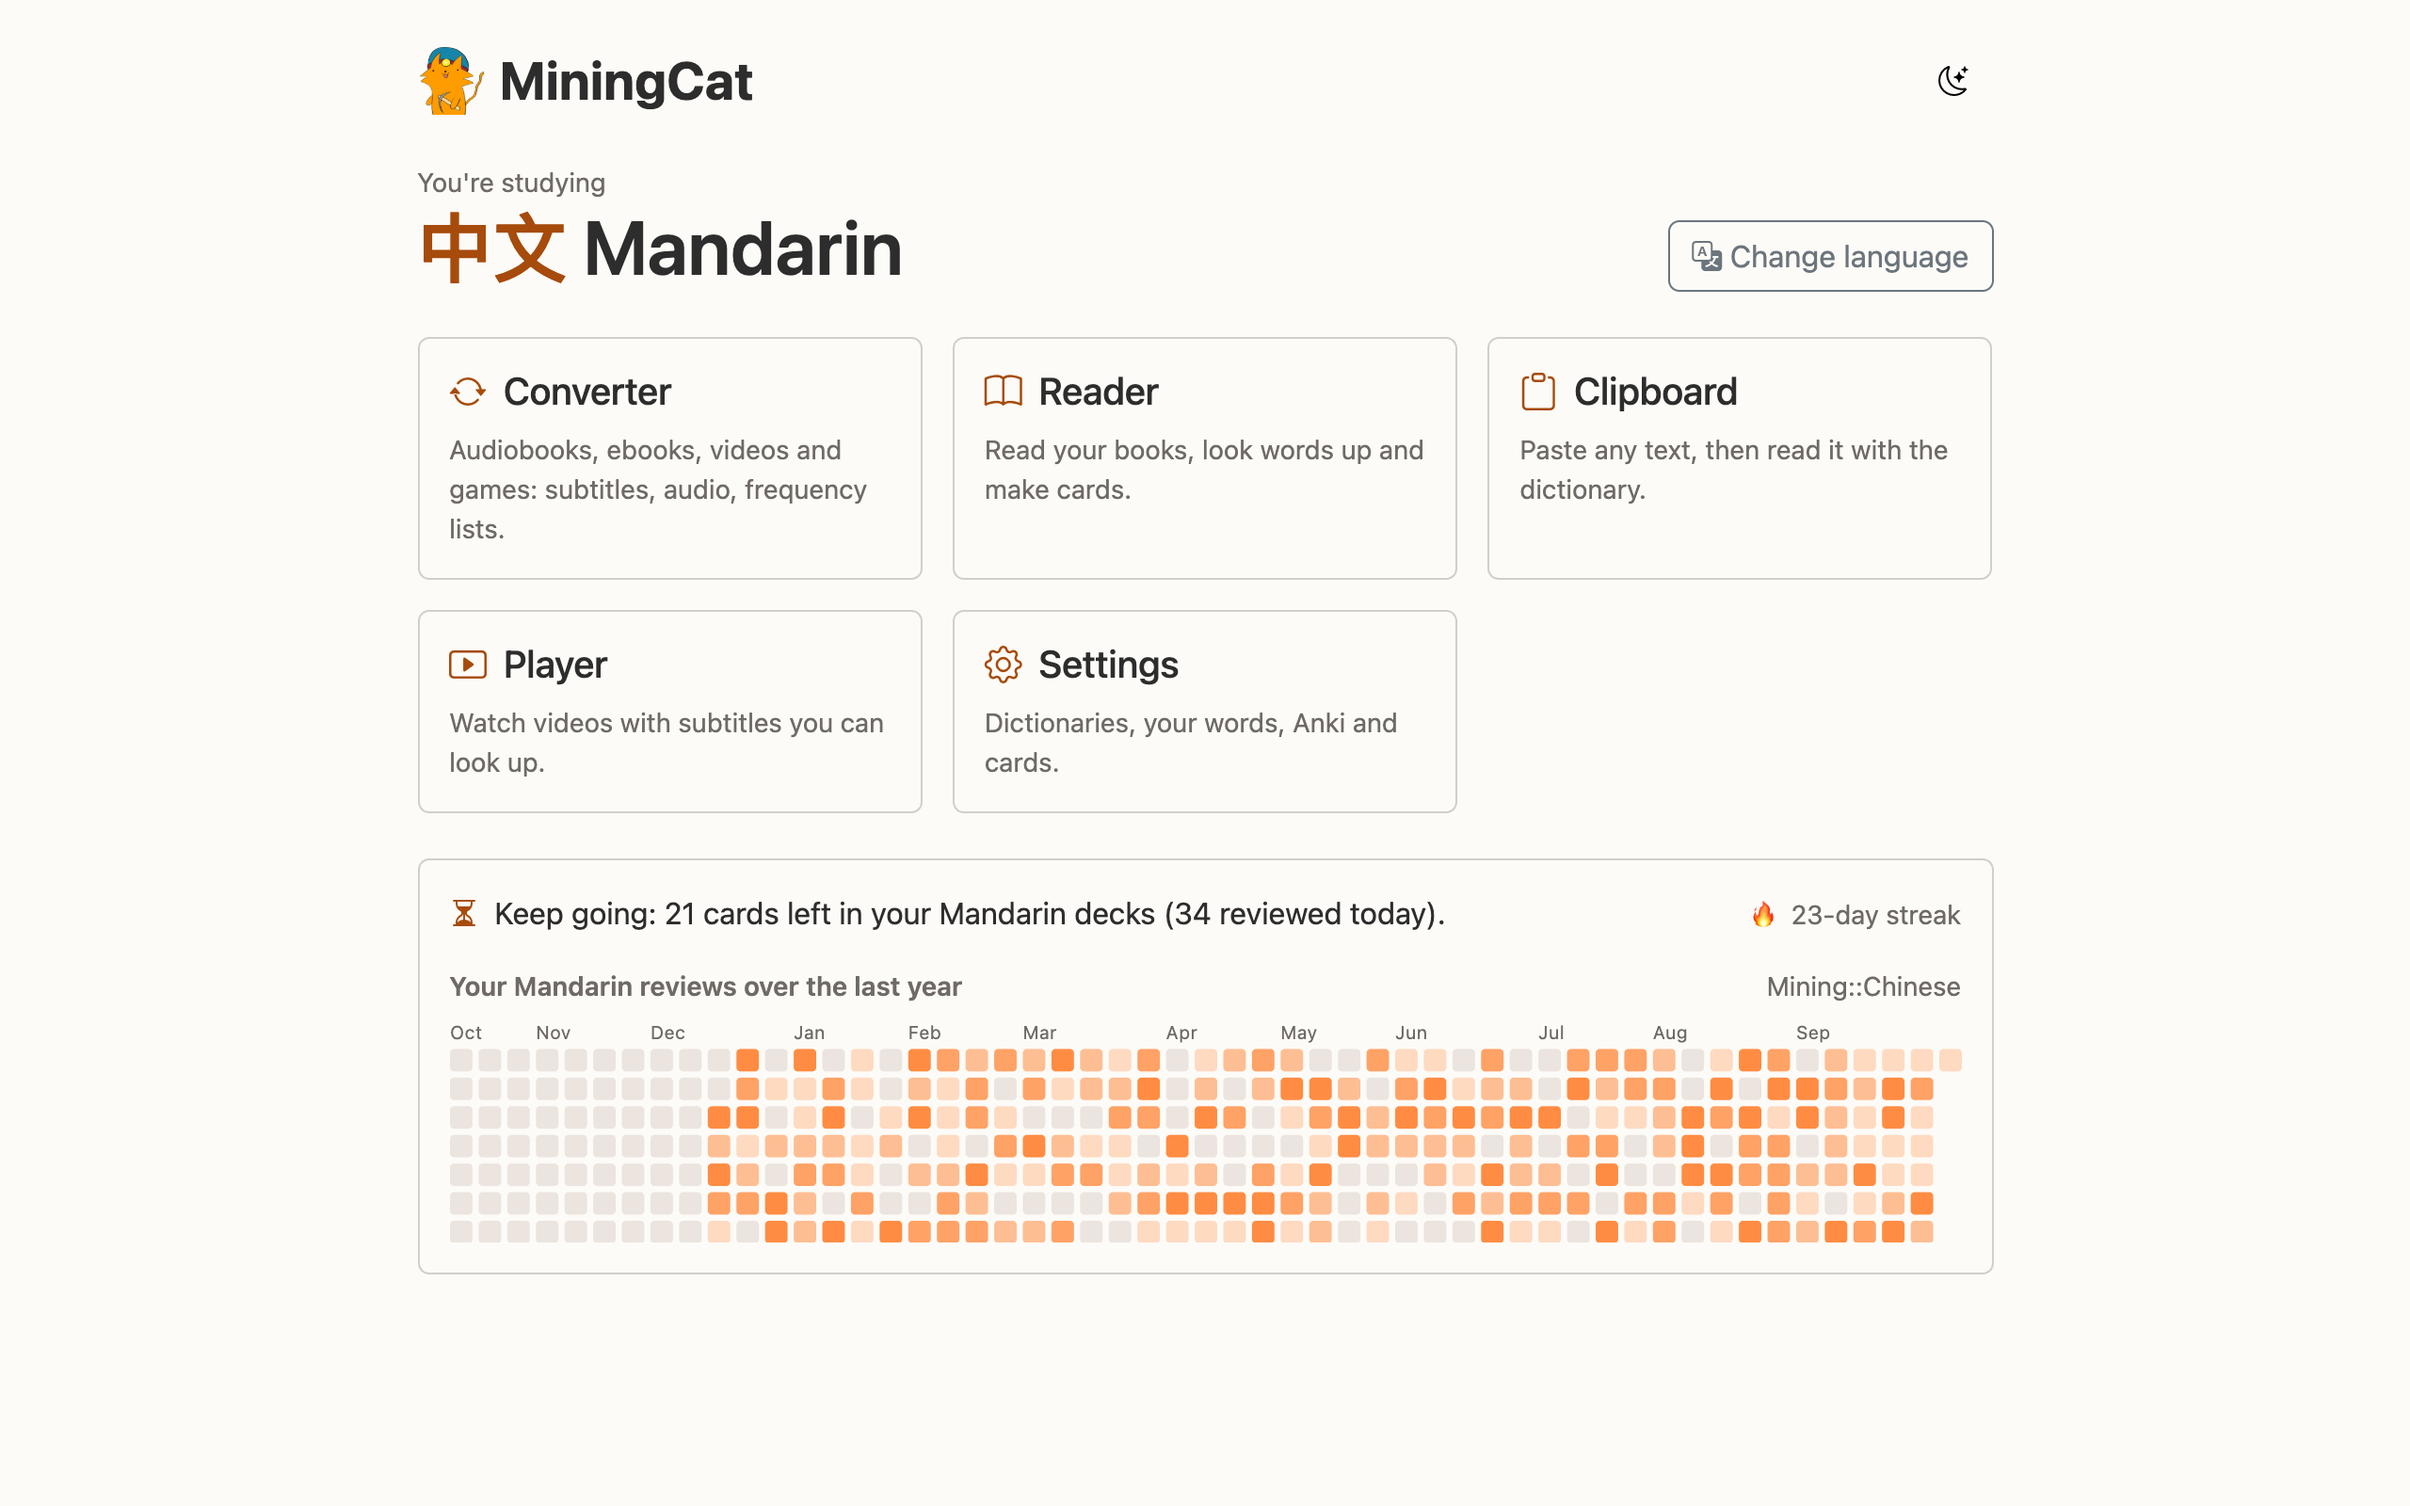
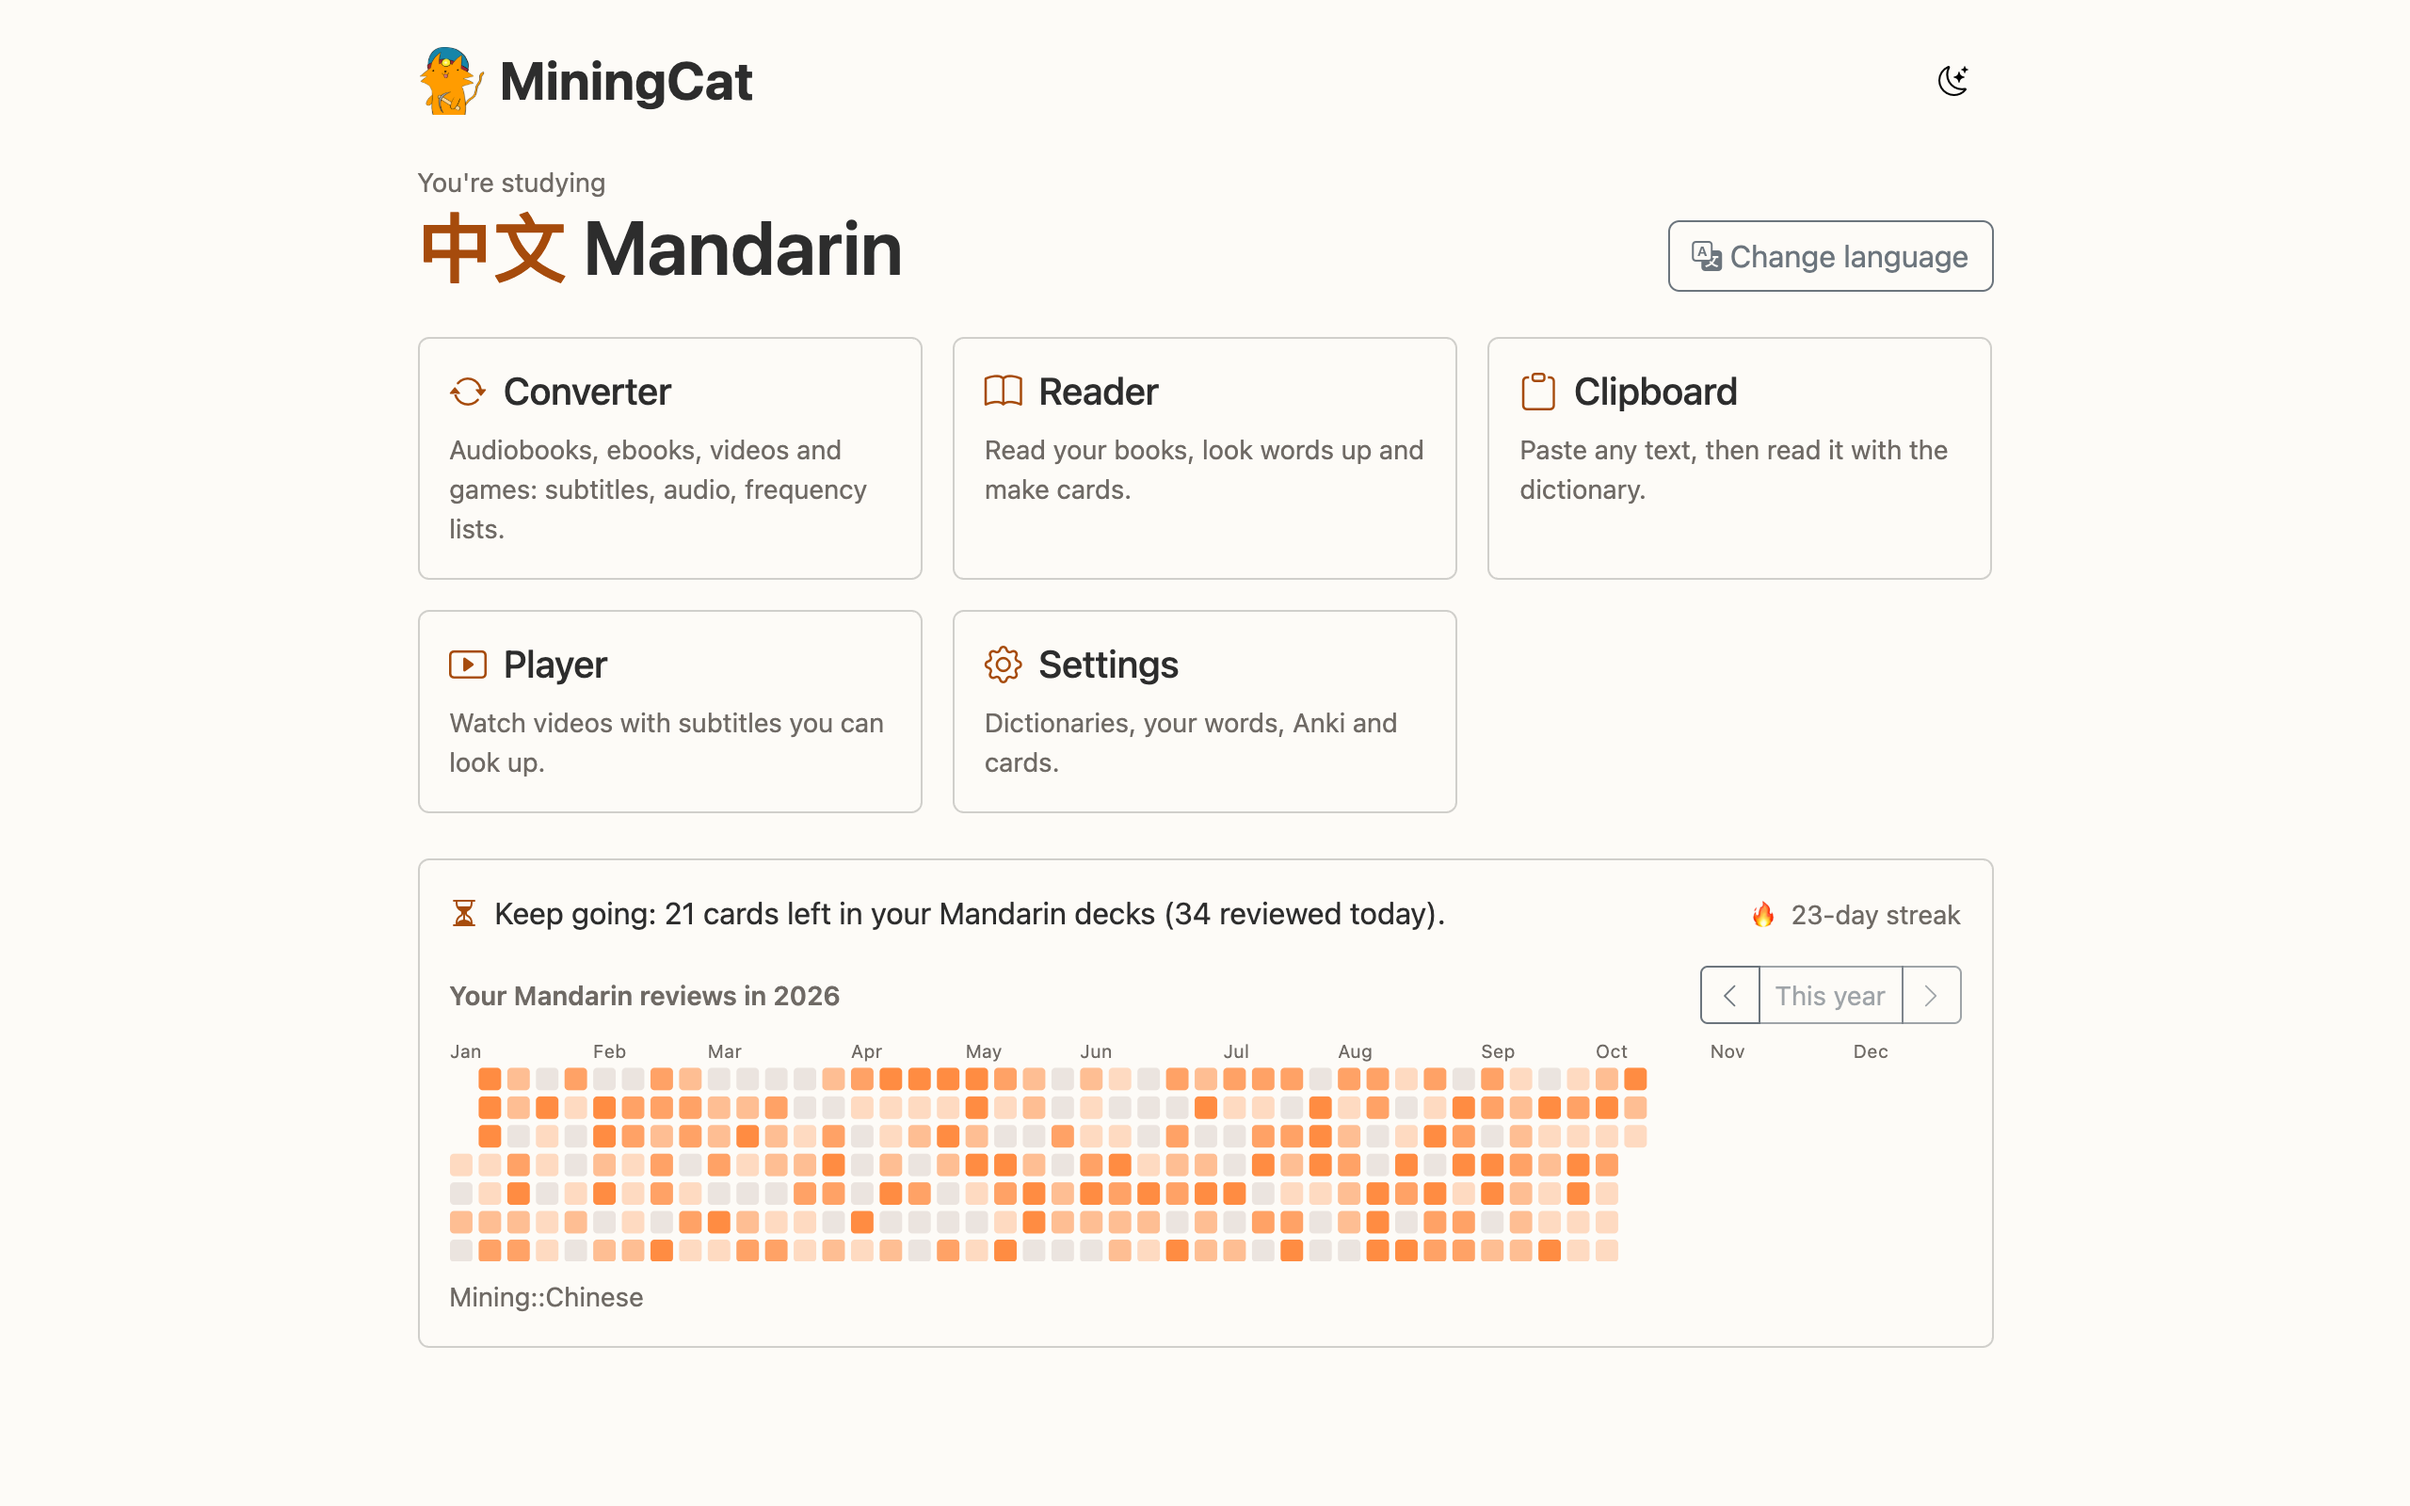
docs: updated screenshots

Changed region(s): [[0.1875, 0.625, 0.8125, 0.875]]

diff --git a/src/miningcat/interfaces/web/templates/settings.html b/src/miningcat/interfaces/web/templates/settings.html
@@ -469,7 +469,7 @@
             </label>
             <label class="list-group-item d-flex align-items-center gap-3">
               <input class="form-check-input flex-shrink-0 m-0" type="radio" name="heatmap" data-mc-heatmap-choice="rainbow">
-              <span class="flex-grow-1">Rainbow <span class="d-block small text-body-secondary">The year as a rainbow: red a year ago, violet this week.</span></span>
+              <span class="flex-grow-1">Rainbow <span class="d-block small text-body-secondary">The year as a rainbow: red in January, violet in December.</span></span>
               <span class="mc-sample-heatmap" data-mc-heatmap="rainbow" aria-hidden="true"><span style="--mc-week: 0"></span><span style="--mc-week: 17"></span><span style="--mc-week: 35"></span><span style="--mc-week: 52"></span></span>
             </label>
           </div>

diff --git a/tools/screenshots.py b/tools/screenshots.py
@@ -439,7 +439,7 @@ class Shooter:
         self.demo.ensure_card()
         for tab, name, full in [("dictionaries", "settings-dictionaries", True), ("languages", "settings-languages", True),
                                 ("anki", "settings-anki", True), ("translation", "settings-translation", False), ("voice", "settings-voice", False),
-                                ("cards", "settings-cards", False), ("preferences", "settings-preferences", False)]:
+                                ("cards", "settings-cards", False), ("preferences", "settings-preferences", True)]:
             self.go("/settings/")
             self.page.click(f'[data-tab="{tab}"]')
             self.page.wait_for_timeout(2000)
